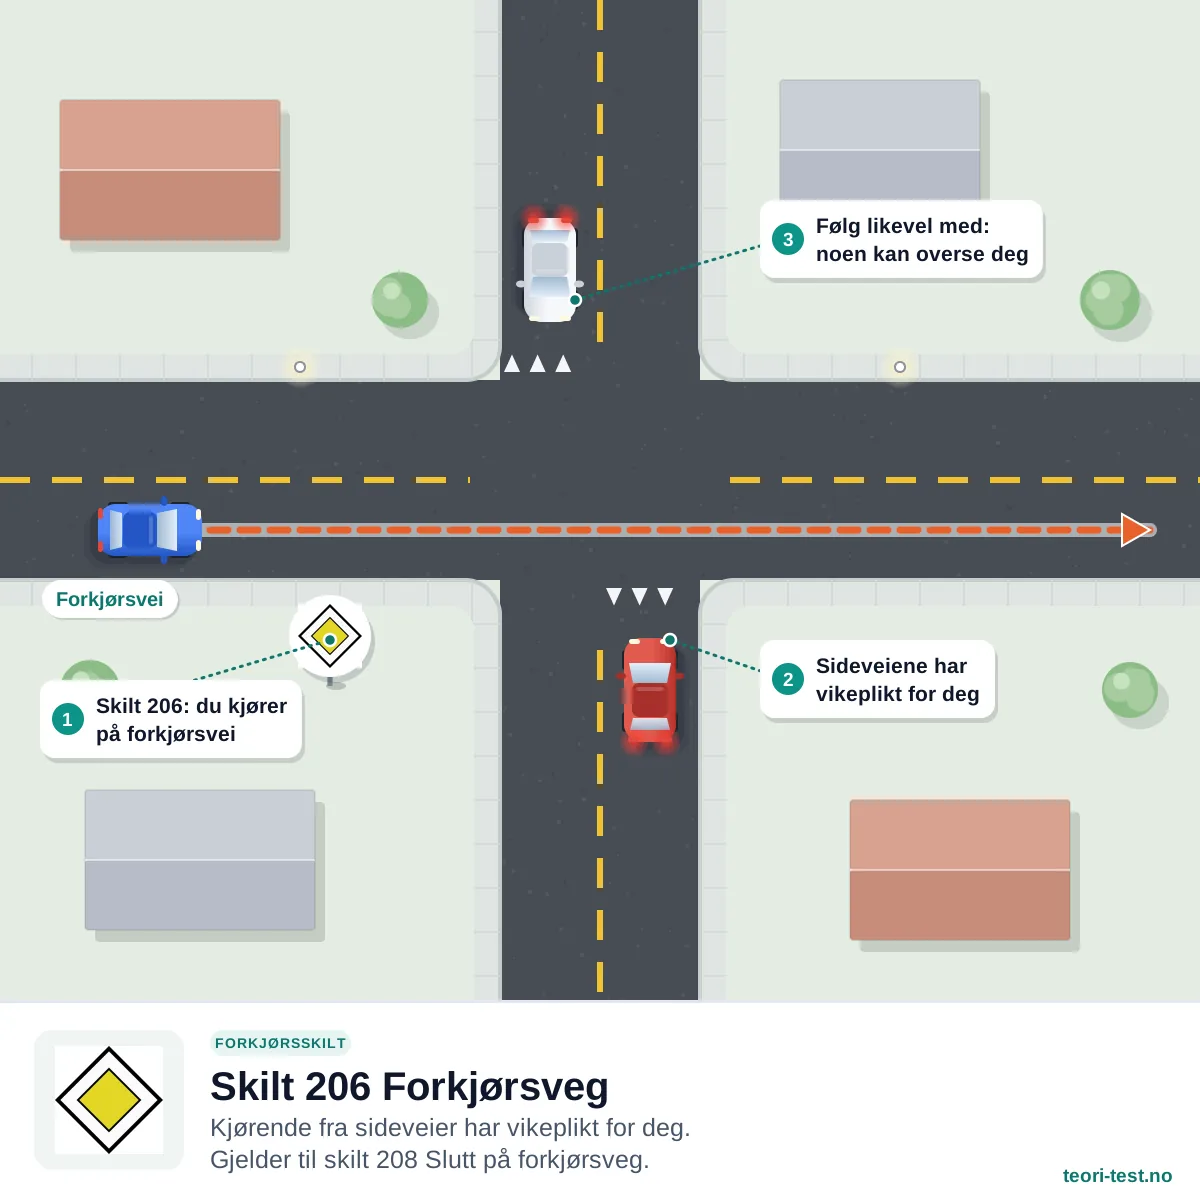
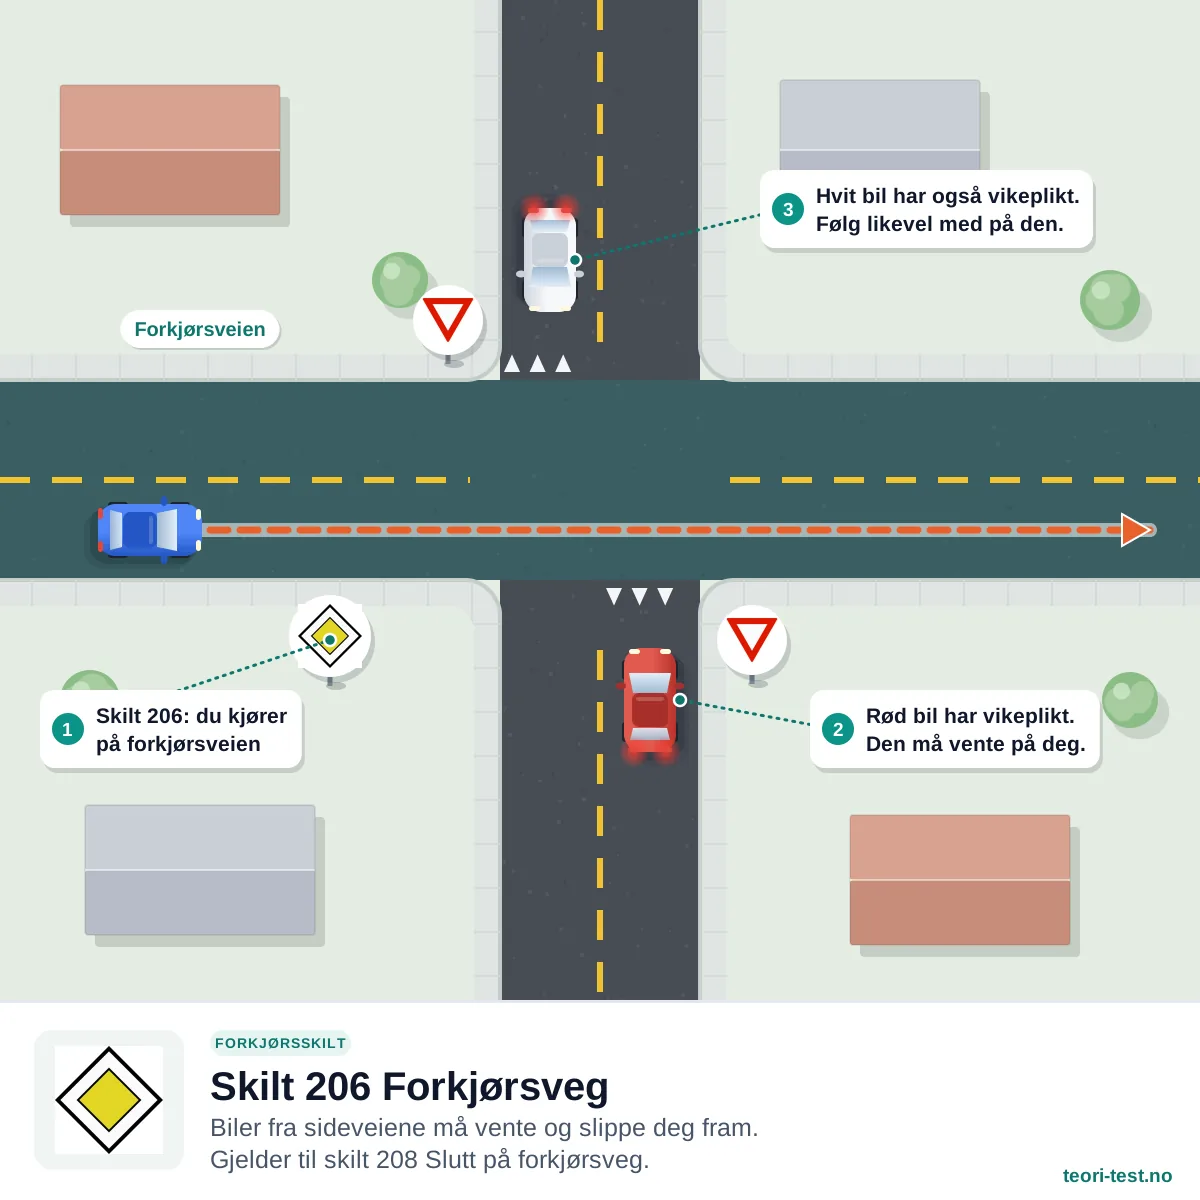
content: tydeligere situasjonsbilde og enklere tekst for skilt 206
- Forkjørsveien er farget i bildet, og begge sideveiene har vikepliktskilt
- Tekstene sier hvem som må vente, i stedet for «har vikeplikt for deg»

Claude-Session: https://claude.ai/code/session_0164FqxZGKUYMbhApiH1mDb4

diff --git a/src/data/trafficSignGuides.ts b/src/data/trafficSignGuides.ts
@@ -34,12 +34,12 @@ export interface TrafficSignGuide {
 export const trafficSignGuides: Record<string, TrafficSignGuide> = {
   '206': {
     updatedAt: '2026-10-18',
-    intro: 'Se hvem som har vikeplikt for deg, hvor lenge forkjørsveien gjelder, og når du likevel må vike.',
+    intro: 'Se hvem som må vente på deg, hvor lenge forkjørsveien gjelder, og når du likevel må vike.',
     title: 'Skilt 206 Forkjørsveg – hva betyr skiltet?',
-    description: 'Forkjørsveg betyr at kjørende fra sideveier og kryssende veier har vikeplikt for deg. Skiltet gjelder til skilt 208 Slutt på forkjørsveg, eller til et vikeplikt- eller stoppskilt.',
-    answer: 'Du kjører på en forkjørsvei. Kjørende fra sideveier og kryssende veier har vikeplikt for deg, så høyreregelen gjelder ikke i kryssene. Skiltet gjelder til skilt 208 Slutt på forkjørsveg, eller til du møter skilt 202 Vikeplikt eller 204 Stopp.',
-    scenario: 'Du kjører rett fram gjennom et kryss. Bilene i sideveiene har vikelinje og vikepliktskilt, og skal slippe deg fram. Du holder farten, men følger med på om noen ikke stanser.',
-    points: ['Skilt 206 viser at du kjører på forkjørsvei.', 'Bilene i sideveiene har vikeplikt for deg.', 'Følg likevel med: Den som har vikeplikt, kan overse deg.'],
+    description: 'Forkjørsveg betyr at du kjører på hovedveien gjennom krysset. Biler fra sideveiene må vente og slippe deg fram. Skiltet gjelder til skilt 208 Slutt på forkjørsveg, eller til et vikeplikt- eller stoppskilt.',
+    answer: 'Du kjører på hovedveien, og den er forkjørsvei. Biler som kommer fra sideveiene, må vente og slippe deg fram. Du skal derfor ikke vike for biler fra høyre i kryssene. Skiltet gjelder til skilt 208 Slutt på forkjørsveg, eller til du møter skilt 202 Vikeplikt eller 204 Stopp.',
+    scenario: 'Du kjører rett fram gjennom et kryss på forkjørsveien. Den røde og den hvite bilen kommer fra sideveier med vikepliktskilt og vikelinje. De må vente til du har kjørt forbi. Du holder farten, men følger med på om noen ikke stanser.',
+    points: ['Skilt 206 viser at veien du kjører på, er forkjørsvei.', 'Den røde bilen har vikepliktskilt og må vente på deg.', 'Den hvite bilen må også vente. Følg likevel med, for den kan overse deg.'],
     misconception: 'Forkjørsvei betyr ikke at du alltid kjører først. Svinger du til venstre, må du vike for møtende. Du må også slippe fram gående i gangfelt.',
     steps: ['Hold jevn fart gjennom krysset når det er trygt.', 'Se etter biler fra sideveiene som kommer fort eller ikke ser ut til å stanse.', 'Skal du svinge til venstre, vik for møtende kjørende.', 'Slipp fram gående i gangfelt, også på forkjørsvei.'],
     places: ['Ved starten av en vei med forkjørsrett, ofte en hovedvei gjennom et område.', 'Foran et enkelt kryss der det skal være tydelig at trafikken på din vei har forkjørsrett.'],
@@ -47,7 +47,7 @@ export const trafficSignGuides: Record<string, TrafficSignGuide> = {
     comparisons: [['202', 'Vikeplikt: du skal vike for kryssende trafikk. Det er motsatt av forkjørsvei.'], ['204', 'Stopp: du skal stanse helt og vike for kryssende trafikk.']],
     consequence: 'Skiltet pålegger ikke deg noe du kan bryte. Plikten ligger hos dem i sideveiene: Brudd på vikeplikt ved skilt 202 eller 204 med bil har et forenklet forelegg på 10 750 kr og gir tre prikker, seks i prøveperioden.',
     articles: [['vikeplikt', 'Vikeplikt og hvem som kjører først'], ['veimerking', 'Vikelinjen i sideveien']],
-    faq: [['Gjelder høyreregelen på forkjørsvei?', 'Nei. Kjørende fra sideveier og kryssende veier har vikeplikt for deg, så du skal ikke vike for trafikk fra høyre.'], ['Må jeg vike for møtende når jeg svinger til venstre fra forkjørsveien?', 'Ja. Forkjørsveien gir deg rett foran trafikken fra sideveiene, men ikke foran møtende. Svinger du til venstre, må du vike for dem som kommer mot deg.'], ['Hvor lenge gjelder forkjørsveien?', 'Til skilt 208 Slutt på forkjørsveg, eller til et vikepliktskilt eller stoppskilt gjelder for deg.'], ['Kan jeg parkere på forkjørsvei?', 'Utenfor tettbygd strøk er det forbudt å parkere på forkjørsvei. I tettbygd strøk gjelder de vanlige reglene for stans og parkering.']], paragraph: 6,
+    faq: [['Gjelder høyreregelen på forkjørsvei?', 'Nei. Biler fra sideveiene må vente på deg, så du skal ikke vike for trafikk fra høyre.'], ['Må jeg vike for møtende når jeg svinger til venstre fra forkjørsveien?', 'Ja. Forkjørsveien betyr at bilene fra sideveiene må vente på deg, men ikke at møtende må det. Svinger du til venstre, må du vike for dem som kommer mot deg.'], ['Hvor lenge gjelder forkjørsveien?', 'Til skilt 208 Slutt på forkjørsveg, eller til et vikepliktskilt eller stoppskilt gjelder for deg.'], ['Kan jeg parkere på forkjørsvei?', 'Utenfor tettbygd strøk er det forbudt å parkere på forkjørsvei. I tettbygd strøk gjelder de vanlige reglene for stans og parkering.']], paragraph: 6,
   },
   '370': {
     updatedAt: '2026-10-07', sourceDate: '7. oktober 2026',
